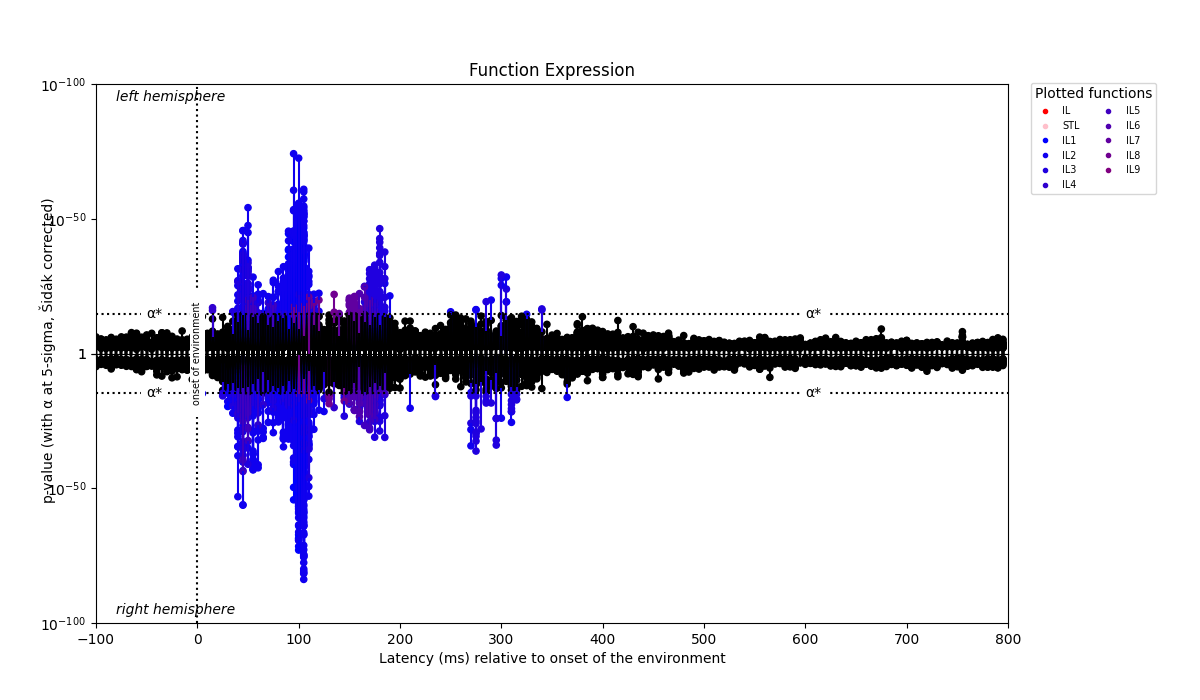
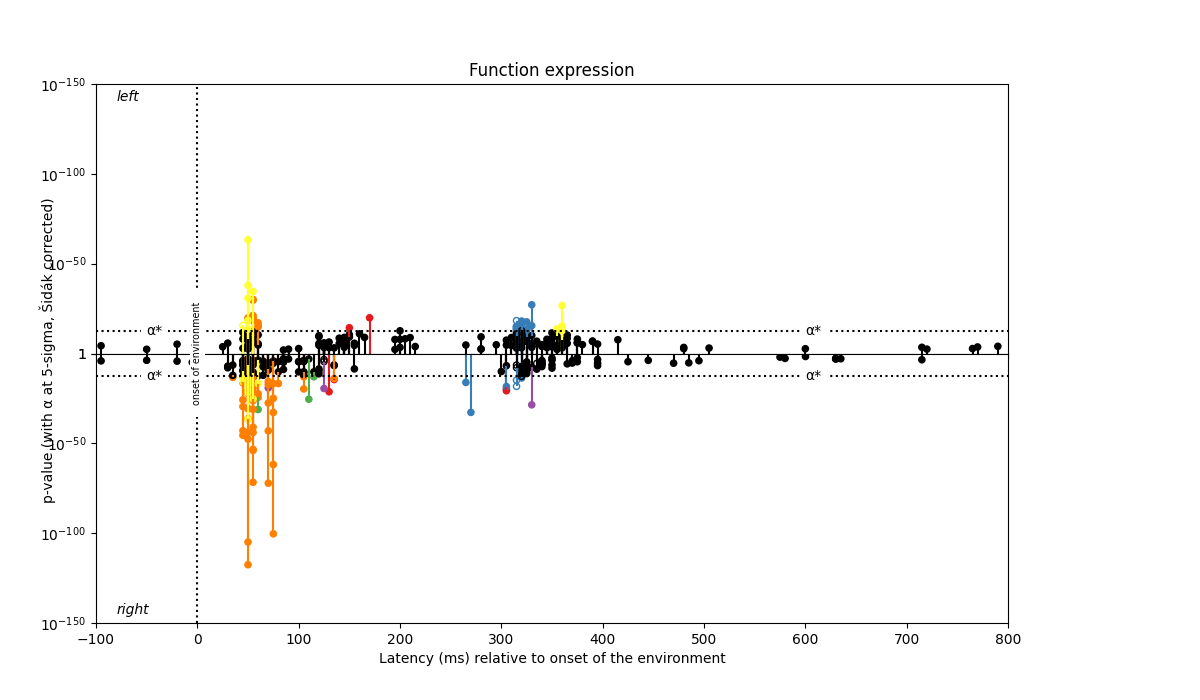
update

diff --git a/kymata/entities/expression.py b/kymata/entities/expression.py
@@ -82,8 +82,6 @@ class ExpressionSet(ABC):
 
         self._validate_functions_no_duplicates(functions)
 
-        for data in data_blocks.values():
-            assert len(functions) == len(data), _length_mismatch_message
         assert all_equal([arr.shape[1] for arrs in data_blocks.values() for arr in arrs]), "Not all input data blocks have the same"
 
         # Channels can vary between blocks (e.g. different numbers of vertices for each hemisphere).
@@ -101,38 +99,65 @@ class ExpressionSet(ABC):
         # i.e. a dict mapping block names to a DataArray containing data for all functions
         self._data: dict[str, DataArray] = dict()
         nan_warning_sent = False
-        for block_name, data_for_functions in data_blocks.items():
-            for function_name, data in zip(functions, data_for_functions):
-                assert len(channels[block_name]) == data.shape[0], f"{channel_coord_name} mismatch for {function_name}: {len(channels)} {channel_coord_name} versus data shape {data.shape} ({block_name})"
-                assert len(latencies) == data.shape[1], f"Latencies mismatch for {function_name}: {len(latencies)} latencies versus data shape {data.shape}"
-            data_array: DataArray = concat(
-                (
-                    DataArray(self._init_prep_data(d),
-                              coords={
-                                  channel_coord_name: channels[block_name],
-                                  DIM_LATENCY: latencies,
-                                  DIM_FUNCTION: [function]
-                              })
-                    for function, d in zip(functions, data_for_functions)
-                ),
-                dim=DIM_FUNCTION,
-                data_vars="all",  # Required by concat of DataArrays
-                )
+        for data in data_blocks.values():
+            if len(functions) == len(data):
+                for block_name, data_for_functions in data_blocks.items():
+                    for function_name, data in zip(functions, data_for_functions):
+                        assert len(channels[block_name]) == data.shape[0], f"{channel_coord_name} mismatch for {function_name}: {len(channels)} {channel_coord_name} versus data shape {data.shape} ({block_name})"
+                        assert len(latencies) == data.shape[1], f"Latencies mismatch for {function_name}: {len(latencies)} latencies versus data shape {data.shape}"
+                    data_array: DataArray = concat(
+                        (
+                            DataArray(self._init_prep_data(d),
+                                    coords={
+                                        channel_coord_name: channels[block_name],
+                                        DIM_LATENCY: latencies,
+                                        DIM_FUNCTION: [function]
+                                    })
+                            for function, d in zip(functions, data_for_functions)
+                        ),
+                        dim=DIM_FUNCTION,
+                        data_vars="all",  # Required by concat of DataArrays
+                        )
 
-            # Sometimes the data can contain nans, for example if the MEG hexel currents were set to nan on the medial
-            # wall. We can ignore these nans by setting the values to p=1, but because it's not typically expected we
-            # warn the user about it.
-            if data_array.isnull().any():
-                data_array = data_array.fillna(value=0)  # logp = 0 => p = 1
-                if not nan_warning_sent:  # Only want to send the warning once, even if there are multiple data blocks with nans.
-                    warn("Supplied data contained nans. These will be replaced by p = 1 values.")
-                    nan_warning_sent = True
+                    # Sometimes the data can contain nans, for example if the MEG hexel currents were set to nan on the medial
+                    # wall. We can ignore these nans by setting the values to p=1, but because it's not typically expected we
+                    # warn the user about it.
+                    if data_array.isnull().any():
+                        data_array = data_array.fillna(value=0)  # logp = 0 => p = 1
+                        if not nan_warning_sent:  # Only want to send the warning once, even if there are multiple data blocks with nans.
+                            warn("Supplied data contained nans. These will be replaced by p = 1 values.")
+                            nan_warning_sent = True
 
-            assert data_array.dims == self._dims
-            assert set(data_array.coords.keys()) == set(self._dims)
-            assert array_equal(data_array.coords[DIM_FUNCTION].values, functions)
+                    assert data_array.dims == self._dims
+                    assert set(data_array.coords.keys()) == set(self._dims)
+                    assert array_equal(data_array.coords[DIM_FUNCTION].values, functions)
 
-            self._data[block_name] = data_array
+                    self._data[block_name] = data_array
+            
+            else:
+                for block_name, data_for_functions in data_blocks.items():
+                    data_array = DataArray(data_for_functions,
+                                    coords={
+                                        channel_coord_name: channels[block_name],
+                                        DIM_LATENCY: latencies,
+                                        DIM_FUNCTION: functions
+                                    })
+
+                    # Sometimes the data can contain nans, for example if the MEG hexel currents were set to nan on the medial
+                    # wall. We can ignore these nans by setting the values to p=1, but because it's not typically expected we
+                    # warn the user about it.
+                    if data_array.isnull().any():
+                        data_array = data_array.fillna(value=0)  # logp = 0 => p = 1
+                        if not nan_warning_sent:  # Only want to send the warning once, even if there are multiple data blocks with nans.
+                            warn("Supplied data contained nans. These will be replaced by p = 1 values.")
+                            nan_warning_sent = True
+
+                    assert data_array.dims == self._dims
+                    assert set(data_array.coords.keys()) == set(self._dims)
+                    assert array_equal(data_array.coords[DIM_FUNCTION].values, functions)
+
+                    self._data[block_name] = data_array
+            
 
     def _validate_functions_no_duplicates(self, functions):
         if not len(functions) == len(set(functions)):

diff --git a/invokers/invoker_run_nkg_plotting.py b/invokers/invoker_run_nkg_plotting.py
@@ -11,14 +11,15 @@ import time
 from tqdm import tqdm
 
 def main():
-    function_family_type = 'ANN' # 'standard' or 'ANN' or 'simple'
+
+    function_family_type = 'simple' # 'standard' or 'ANN' or 'simple'
     path_to_nkg_files = Path(Path(path.abspath("")).parent, "kymata-core", "kymata-core-data", "output")
 
     # template invoker for printing out expression set .nkgs
 
     if function_family_type == 'simple':
 
-        expression_data  = load_expression_set(Path(path_to_nkg_files, 'whisper_large_multi/encoder_all_der_5/expression_set/model.encoder.layers.0.final_layer_norm/model.encoder.layers.0.final_layer_norm_1279_gridsearch.nkg'))
+        expression_data  = load_expression_set(Path(path_to_nkg_files, 'individual_tvl/eng/participant_01_gridsearch.nkg'))
 
         fig = expression_plot(expression_data, paired_axes=True, minimap=False, show_legend=False)
 

diff --git a/kymata/io/nkg.py b/kymata/io/nkg.py
@@ -109,8 +109,7 @@ def load_expression_set(from_path_or_file: PathType | FileType) -> ExpressionSet
             functions=data_dict[_Keys.functions],
             sensors=[SensorDType(c) for c in data_dict[_Keys.channels][BLOCK_SCALP]],
             latencies=data_dict[_Keys.latencies],
-            data=[data_dict[_Keys.data][BLOCK_SCALP][:, :, i]
-                  for i in range(len(data_dict[_Keys.functions]))],
+            data=data_dict[_Keys.data][BLOCK_SCALP]
         )
 
 
